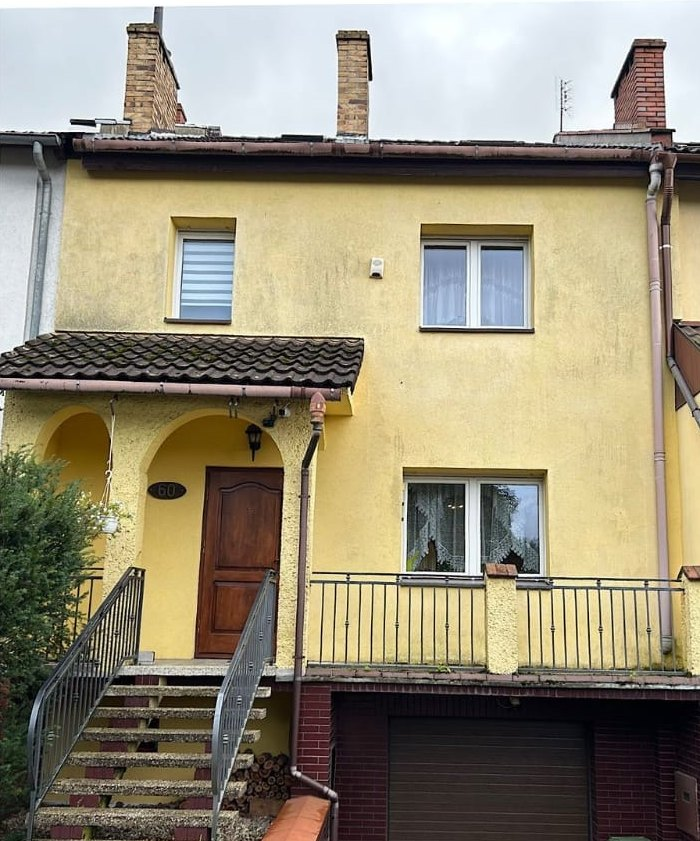
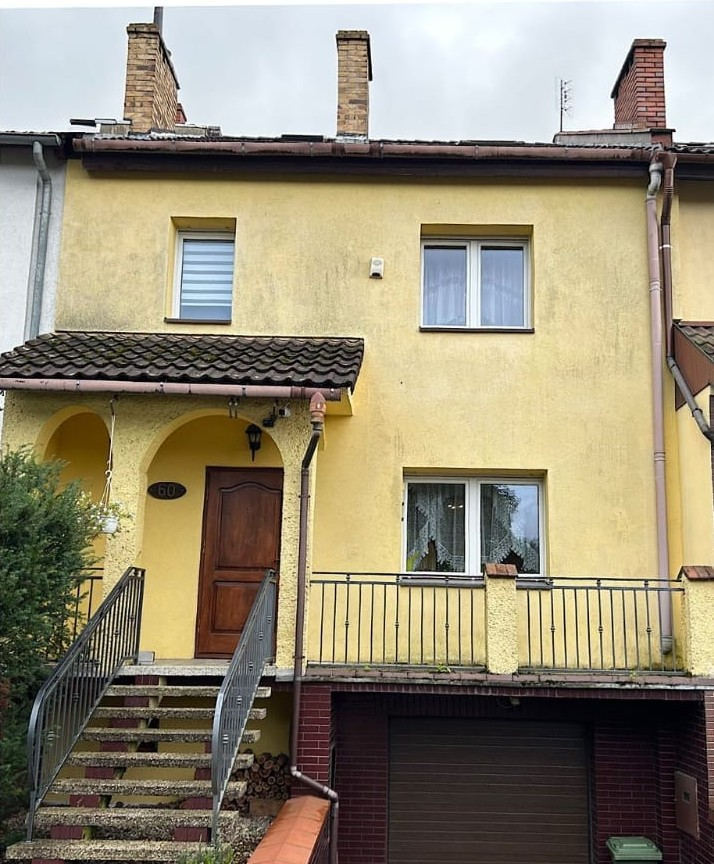
Przed/po zoltego domku: tylko obrot i przesuniecie, bez skalowania

diff --git a/warianty/dom-rozkladany.html b/warianty/dom-rozkladany.html
@@ -1437,7 +1437,7 @@ function renderQuick(){
   const pp = (GAL_DATA.przedpo || {})[mode];
   quickEl.classList.remove("on");
   quickEl.innerHTML = `<div class="q-card"><button class="q-x" type="button" aria-label="Zamknij">×</button><div class="q-in">` +
-    (pp ? `<div class="qba" id="qba"><img src="${galSrc(pp.przed)}" alt="Przed"><img class="qpo" src="${galSrc(pp.po)}" alt="Po"><span class="qh"></span><span class="ql">Przed</span><span class="qr">Po</span></div>` : "") +
+    (pp ? `<div class="qba" id="qba"><img src="${galSrc(pp.przed)}?v=3" alt="Przed"><img class="qpo" src="${galSrc(pp.po)}?v=3" alt="Po"><span class="qh"></span><span class="ql">Przed</span><span class="qr">Po</span></div>` : "") +
     `<div class="q-tyt">${q[0]}</div><p class="q-txt">${q[1]}</p></div></div>` +
     (mode === "odnowa" ? `<div class="q-spec${specOn ? " show" : ""}"><b>Nasza specjalność</b>akrylowanie okien</div>` : "");
   requestAnimationFrame(() => requestAnimationFrame(() => { if (mode !== "dom" && !sel) quickEl.classList.add("on"); }));

diff --git a/index.html b/index.html
@@ -521,7 +521,7 @@ footer b{color:var(--ink)}
 
 <!-- ==================== HERO Z INTERAKTYWNYM DOMKIEM ==================== -->
 <section id="dom" class="dom3d-sec">
-  <iframe id="dom3dFrame" src="warianty/dom-rozkladany.html?v=20261105j" title="Interaktywny dom PAO Elite — kliknij część domu"
+  <iframe id="dom3dFrame" src="warianty/dom-rozkladany.html?v=20261105k" title="Interaktywny dom PAO Elite — kliknij część domu"
     loading="lazy" style="display:block;width:100%;height:1040px;border:0;background:var(--bg)"></iframe>
 </section>
 
